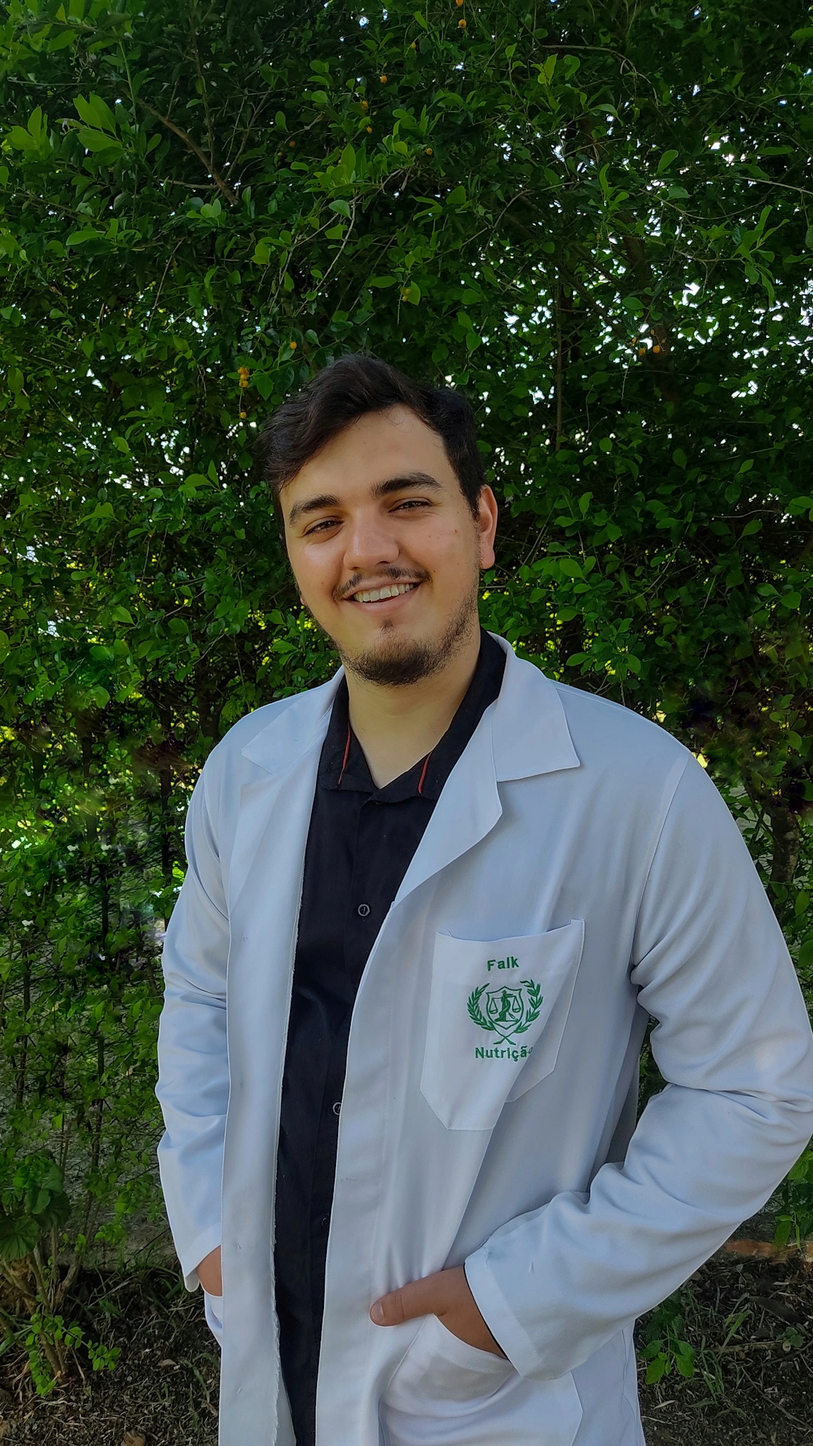
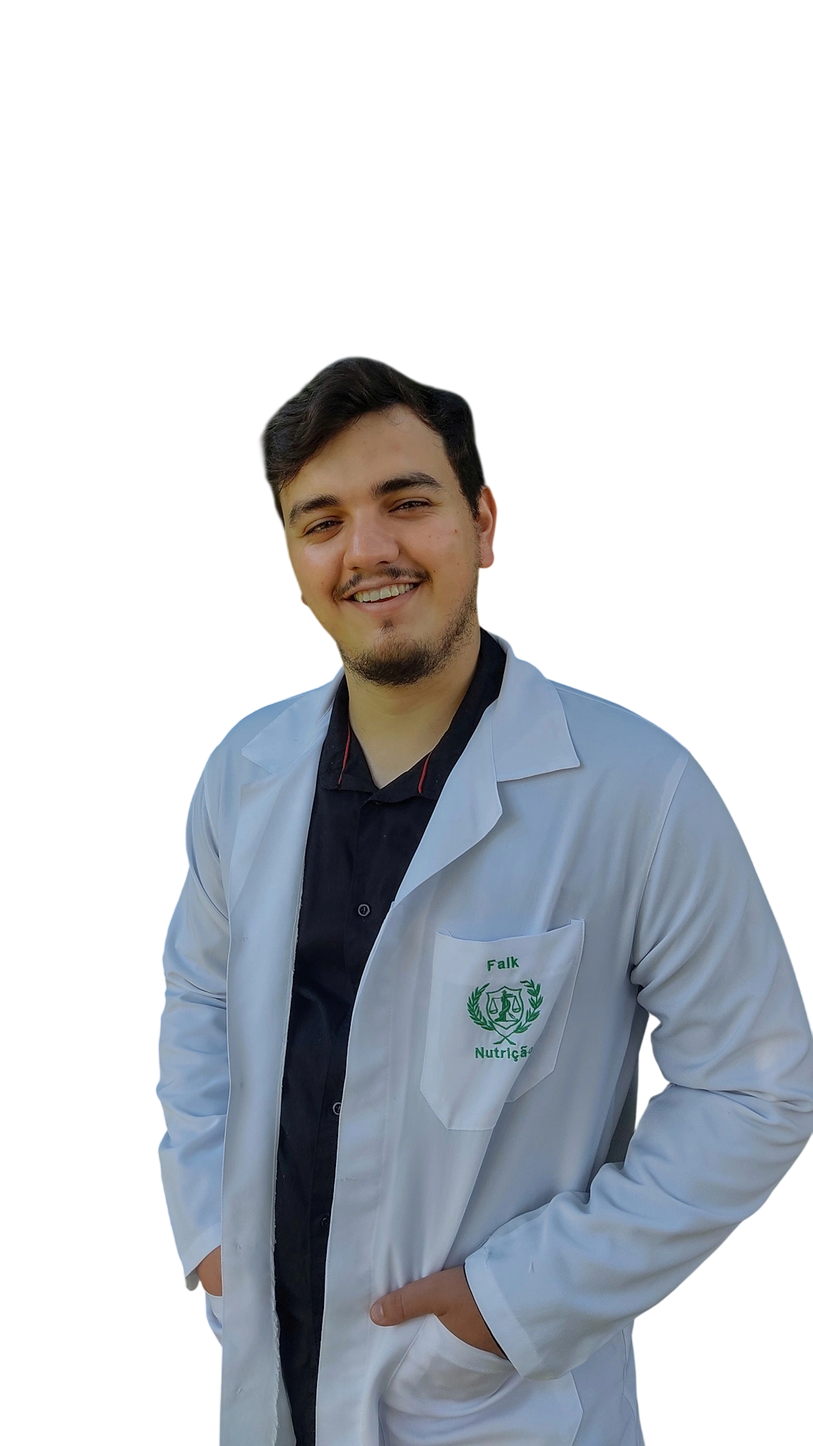
fix images

diff --git a/src/components/sections/SpecialistsSection.tsx b/src/components/sections/SpecialistsSection.tsx
@@ -5,23 +5,15 @@ import Badge from '@/components/ui/Badge'
 import AnimatedSection from '@/components/ui/AnimatedSection'
 import { specialists, type Specialist } from '@/lib/constants'
 
-function InstagramIcon() {
+function SocialIcon({ src, alt }: { src: string; alt: string }) {
   return (
-    <svg
-      width="18"
-      height="18"
-      viewBox="0 0 24 24"
-      fill="none"
-      stroke="currentColor"
-      strokeWidth="2"
-      strokeLinecap="round"
-      strokeLinejoin="round"
-      aria-hidden="true"
-    >
-      <rect x="2" y="2" width="20" height="20" rx="5" />
-      <circle cx="12" cy="12" r="5" />
-      <circle cx="17.5" cy="6.5" r="1.5" />
-    </svg>
+    <Image
+      src={src}
+      alt={alt}
+      width={25}
+      height={25}
+      className="object-contain"
+    />
   )
 }
 
@@ -62,22 +54,39 @@ function SpecialistCard({
 
           <h3 className="heading-3">{specialist.name}</h3>
 
-          <p className="label-text">{specialist.specialty}</p>
+          <p className="label-text text-deep-blue">{specialist.specialty}</p>
 
           <p className="body-text text-white/90">{specialist.bio}</p>
 
-          <a
-            href={specialist.instagram}
-            target="_blank"
-            rel="noopener noreferrer"
-            className="mt-1 inline-flex w-fit items-center gap-2 text-sky-blue transition-colors hover:text-neon-green focus-visible:outline-none focus-visible:ring-2 focus-visible:ring-neon-green focus-visible:ring-offset-2 focus-visible:ring-offset-dark-blue"
-            aria-label={`Instagram da ${specialist.name}`}
-          >
-            <InstagramIcon />
-            <span className="font-century text-sm font-bold">
-              Seguir no Instagram
-            </span>
-          </a>
+          <div className="mt-1 flex items-center gap-3">
+            <a
+              href={specialist.instagram}
+              target="_blank"
+              rel="noopener noreferrer"
+              className="inline-flex text-sky-blue transition-colors hover:text-neon-green focus-visible:outline-none focus-visible:ring-2 focus-visible:ring-neon-green focus-visible:ring-offset-2 focus-visible:ring-offset-dark-blue"
+              aria-label={`Instagram da ${specialist.name}`}
+            >
+              <SocialIcon src="/images/instagram.webp" alt="Instagram" />
+            </a>
+            <a
+              href={specialist.whatsapp}
+              target="_blank"
+              rel="noopener noreferrer"
+              className="inline-flex text-sky-blue transition-colors hover:text-neon-green focus-visible:outline-none focus-visible:ring-2 focus-visible:ring-neon-green focus-visible:ring-offset-2 focus-visible:ring-offset-dark-blue"
+              aria-label={`WhatsApp da ${specialist.name}`}
+            >
+              <SocialIcon src="/images/whatsapp.webp" alt="WhatsApp" />
+            </a>
+            <a
+              href={specialist.instagram}
+              target="_blank"
+              rel="noopener noreferrer"
+              className="inline-flex text-sky-blue transition-colors hover:text-neon-green focus-visible:outline-none focus-visible:ring-2 focus-visible:ring-neon-green focus-visible:ring-offset-2 focus-visible:ring-offset-dark-blue"
+              aria-label={`Instagram da ${specialist.name}`}
+            >
+              <Image className="m-1" width={specialist.width} height={specialist.height} src={specialist.logo} alt="Logomarca" />
+            </a>
+          </div>
         </div>
       </GlassCard>
     </AnimatedSection>
@@ -100,10 +109,10 @@ export default function SpecialistsSection() {
             <Badge variant="accent" className="mb-4 inline-block">
               NOSSO TIME
             </Badge>
-            <h2 className="heading-2 mb-4">
+            <h2 className="heading-2 mb-4 text-deep-blue">
               Especialistas que Cuidam de Você
             </h2>
-            <p className="body-text text-white/90">
+            <p className="body-text text-dark-blue/80">
               Conheça a equipe multidisciplinar que vai acompanhar sua jornada
               de transformação com ciência, experiência e cuidado
               individualizado.

diff --git a/src/lib/constants.ts b/src/lib/constants.ts
@@ -88,6 +88,10 @@ export interface Specialist {
   bio: string
   image: string
   instagram: string
+  whatsapp: string
+  logo: string
+  width: number
+  height: number
   badges: string[]
 }
 
@@ -95,28 +99,27 @@ export const specialists: Specialist[] = [
   {
     id: 'specialist-1',
     name: 'Selena Rossi',
-    specialty: 'Nutricionista Clínica',
-    bio: 'Especialista em nutrição feminina com mais de 10 anos de experiência. Referência em reeducação alimentar para mulheres que buscam saúde e bem-estar de forma sustentável.',
-    image: '/images/specialist-1.svg',
-    instagram: 'https://instagram.com/',
-    badges: ['CREF 038077-G/RS', 'Pós-graduada'],
+    specialty: 'Personal Trainer',
+    bio: 'Personal Trainer graduada pela UFSM e Especialista em Saúde da Mulher, Biomecânica e Reabilitação Musculoesquelética. Com mais de 5 anos de experiência, ajudei várias mulheres a alcançarem seus objetivos de saúde e bem-estar com programas personalizados e acompanhamento dedicado.',
+    image: '/images/selenaRossi.webp',
+    instagram: 'https://www.instagram.com/selenarossi_personal/',
+    whatsapp: 'https://wa.me/5555999501617',
+    logo: '/images/logo_selenaRossi.webp',
+    width: 90,
+    height: 90,
+    badges: ['CREF 038077-G/RS', 'Saúde da Mulher'],
   },
   {
     id: 'specialist-2',
-    name: 'Dra. Beatriz Santos',
-    specialty: 'Endocrinologista',
-    bio: 'Médica endocrinologista dedicada ao equilíbrio hormonal feminino. Abordagem integrativa que une ciência e cuidado individualizado para resultados duradouros.',
-    image: '/images/specialist-2.svg',
-    instagram: 'https://instagram.com/',
-    badges: ['CRM 54321', 'RQE 9876'],
-  },
-  {
-    id: 'specialist-3',
-    name: 'Dra. Carla Oliveira',
-    specialty: 'Psicóloga Comportamental',
-    bio: 'Psicóloga especializada em comportamento alimentar e saúde mental da mulher. Ajuda milhares de mulheres a desenvolverem uma relação saudável com o corpo e a comida.',
-    image: '/images/specialist-3.svg',
-    instagram: 'https://instagram.com/',
-    badges: ['CRP 67890', 'Mestre em Psicologia'],
+    name: 'Rafael Falk',
+    specialty: 'Nutricionista',
+    bio: 'Nutricionista graduado pela UFN especializando-se em Nutrição Esportiva e Estética. Trabalha com planos personalizados para melhorar desempenho, saúde e composição corporal, sempre com embasamento científico.',
+    image: '/images/rafaelFalk.webp',
+    instagram: 'https://www.instagram.com/rafa.falk/',
+    whatsapp: 'https://wa.me/5555996326861',
+    logo: '/images/logo_rafaelFalk.webp',
+    width: 110,
+    height: 110,
+    badges: ['CRN 54321', 'Nutrição Esportiva'],
   },
 ]

diff --git a/src/components/layout/Navbar.tsx b/src/components/layout/Navbar.tsx
@@ -3,7 +3,7 @@
 import { useEffect, useRef, useState } from 'react'
 import Container from '@/components/ui/Container'
 import CTAButton from '@/components/ui/CTAButton'
-import { siteConfig } from '@/lib/constants'
+import { siteConfig, ctaConfig } from '@/lib/constants'
 
 const NAV_LINKS = [
   { label: 'Home', href: '#hero' },
@@ -14,6 +14,7 @@ const NAV_LINKS = [
 
 export default function Navbar() {
   const [scrolled, setScrolled] = useState(false)
+  const [progress, setProgress] = useState(0)
   const [menuOpen, setMenuOpen] = useState(false)
   const menuRef = useRef<HTMLDivElement>(null)
   const hamburgerRef = useRef<HTMLButtonElement>(null)
@@ -21,6 +22,9 @@ export default function Navbar() {
   useEffect(() => {
     const handleScroll = () => {
       setScrolled(window.scrollY > 50)
+      const scrollTop = window.scrollY
+      const docHeight = document.documentElement.scrollHeight - window.innerHeight
+      setProgress(docHeight > 0 ? Math.min(scrollTop / docHeight, 1) : 0)
     }
 
     const handleResize = () => {
@@ -119,7 +123,7 @@ export default function Navbar() {
             </a>
           ))}
           <div data-cta="navbar-cta" data-cta-label="navbar-cta" data-cta-whatsapp="true">
-            <CTAButton href="#" size="small">
+            <CTAButton href={ctaConfig.whatsappLink} size="small">
               Quero Participar
             </CTAButton>
           </div>
@@ -166,13 +170,21 @@ export default function Navbar() {
               </a>
             ))}
             <div data-cta="navbar-cta-mobile" data-cta-label="navbar-cta-mobile" data-cta-whatsapp="true" className="mt-2 w-full">
-              <CTAButton href="#" className="w-full">
+              <CTAButton href={ctaConfig.whatsappLink} className="w-full">
                 Quero Participar
               </CTAButton>
             </div>
           </Container>
         </div>
       )}
+
+      {/* Scroll progress bar */}
+      <div className="absolute bottom-0 left-0 right-0 h-0.5 bg-white/10">
+        <div
+          className="h-full bg-neon-green transition-all duration-150 ease-out"
+          style={{ width: `${progress * 100}%` }}
+        />
+      </div>
     </header>
   )
 }

diff --git a/src/components/sections/HeroBanner.tsx b/src/components/sections/HeroBanner.tsx
@@ -1,6 +1,7 @@
 import Image from 'next/image'
 import CTAButton from '@/components/ui/CTAButton'
 import AnimatedSection from '@/components/ui/AnimatedSection'
+import { ctaConfig } from '@/lib/constants'
 
 export default function HeroBanner() {
   return (
@@ -11,7 +12,7 @@ export default function HeroBanner() {
       {/* Decorative background — crossing blue lines (transparent PNG) */}
       <div className="pointer-events-none absolute inset-0 flex items-center justify-center overflow-hidden">
         <img
-          src="/images/hero-bg-lines.png"
+          src="/images/hero-bg-lines.webp"
           alt=""
           className="h-full w-full object-cover opacity-40"
         />
@@ -24,14 +25,14 @@ export default function HeroBanner() {
             alt="Mulher saudável e confiante"
             width={500}
             height={667}
-            className="h-auto w-[280px] object-contain md:w-[400px] lg:w-[500px]"
+            className="h-auto w-[600px] object-contain md:w-[600px] lg:w-[800px]"
             priority
           />
         </AnimatedSection>
 
         <AnimatedSection variant="fade-up" delay={0.3} className="flex flex-wrap justify-center gap-4">
           <div data-cta="hero-cta-principal" data-cta-label="hero-cta-principal" data-cta-whatsapp="true">
-            <CTAButton href="#" variant="primary" size="large">
+            <CTAButton href={ctaConfig.whatsappLink} variant="primary" size="large">
               Quero Participar
             </CTAButton>
           </div>

diff --git a/src/components/sections/SectionsWrapper.tsx b/src/components/sections/SectionsWrapper.tsx
@@ -4,14 +4,14 @@ export default function SectionsWrapper({
   children: React.ReactNode
 }) {
   return (
-    <div className="relative overflow-hidden">
-      {/* Fixed parallax background image — clipped to wrapper */}
+    <div className="relative overflow-hidden will-change-transform">
+      {/* Fixed parallax background image — pre-promoted to GPU compositor */}
       <div
-        className="pointer-events-none absolute inset-0 bg-cover bg-center bg-fixed"
-        style={{ backgroundImage: 'url(/images/hero-bg-lines1)' }}
+        className="pointer-events-none absolute inset-0 bg-cover bg-center bg-fixed bg-no-repeat"
+        style={{ backgroundImage: 'url(/images/hero-bg-lines1.webp)' }}
       />
-      {/* Gradient overlay — white → sky-blue → deep-blue */}
-      <div className="pointer-events-none absolute inset-0 bg-gradient-to-b from-white via-sky-blue/85 to-deep-blue/95" />
+      {/* Gradient overlay — fades to reveal parallax image in the middle */}
+      <div className="pointer-events-none absolute inset-0 bg-gradient-to-b from-white via-sky-blue/40 to-deep-blue/80" />
       {/* Content */}
       <div className="relative z-10">{children}</div>
     </div>

diff --git a/src/components/ui/CTAButton.tsx b/src/components/ui/CTAButton.tsx
@@ -17,7 +17,7 @@ const focusVisible =
 
 const variants = {
   primary:
-    `bg-gradient-cta text-black font-century font-bold rounded-full transition-all duration-300 hover:scale-105 hover:shadow-neon ${focusVisible} focus-visible:ring-neon-green focus-visible:ring-offset-dark-blue`,
+    `bg-gradient-cta text-white font-century font-bold rounded-full transition-all duration-300 hover:scale-105 hover:shadow-neon ${focusVisible} focus-visible:ring-neon-green focus-visible:ring-offset-dark-blue`,
   secondary:
     `bg-white/10 text-white font-century font-bold rounded-full border border-white/20 transition-all duration-300 hover:bg-white/20 hover:scale-105 ${focusVisible} focus-visible:ring-white focus-visible:ring-offset-dark-blue`,
   outline:

diff --git a/src/components/sections/CTASection.tsx b/src/components/sections/CTASection.tsx
@@ -10,7 +10,7 @@ import StaggerItem from '@/components/ui/StaggerItem'
 import { easeOut } from '@/lib/animations'
 import { ctaConfig } from '@/lib/constants'
 
-const AVATAR_COUNT = 4
+const AVATAR_COUNT = 3
 const filledPercent = Math.round(
   (ctaConfig.filledSpots / ctaConfig.totalSpots) * 100,
 )
@@ -103,7 +103,9 @@ export default function CTASection() {
                     <div
                       key={i}
                       className="h-8 w-8 rounded-full border-2 border-dark-blue bg-sky-blue/30"
-                    />
+                    >
+                      <img  />
+                    </div>
                   ))}
                 </div>
                 <span className="body-text text-sm text-white/80">

diff --git a/src/components/sections/HeroSection.tsx b/src/components/sections/HeroSection.tsx
@@ -2,6 +2,7 @@ import Container from '@/components/ui/Container'
 import CTAButton from '@/components/ui/CTAButton'
 import Badge from '@/components/ui/Badge'
 import AnimatedSection from '@/components/ui/AnimatedSection'
+import { ctaConfig } from '@/lib/constants'
 
 const AVATAR_COUNT = 4
 
@@ -38,7 +39,7 @@ export default function HeroSection() {
               data-cta-label="hero-cta-principal"
               data-cta-whatsapp="true"
             >
-              <CTAButton href="#" variant="primary" size="large">
+              <CTAButton href={ctaConfig.whatsappLink} variant="primary" size="large">
                 Quero Participar
               </CTAButton>
             </div>

diff --git a/src/components/sections/ForWhoSection.tsx b/src/components/sections/ForWhoSection.tsx
@@ -43,11 +43,10 @@ export default function ForWhoSection() {
               PARA QUEM E
             </Badge>
             <h2 className="heading-2 mb-4">
-              Este Desafio e para Voce
+              Este desafio é para você
             </h2>
             <p className="body-text text-white/90">
-              Se voce se identifica com algum dos perfis abaixo, o programa foi
-              criado pensando em voce e nas suas necessidades.
+              Mulher que acha que não tem tempo para treinar que não tem o acompanhamento necessário para alcançar seus objetivos.
             </p>
           </div>
         </AnimatedSection>
